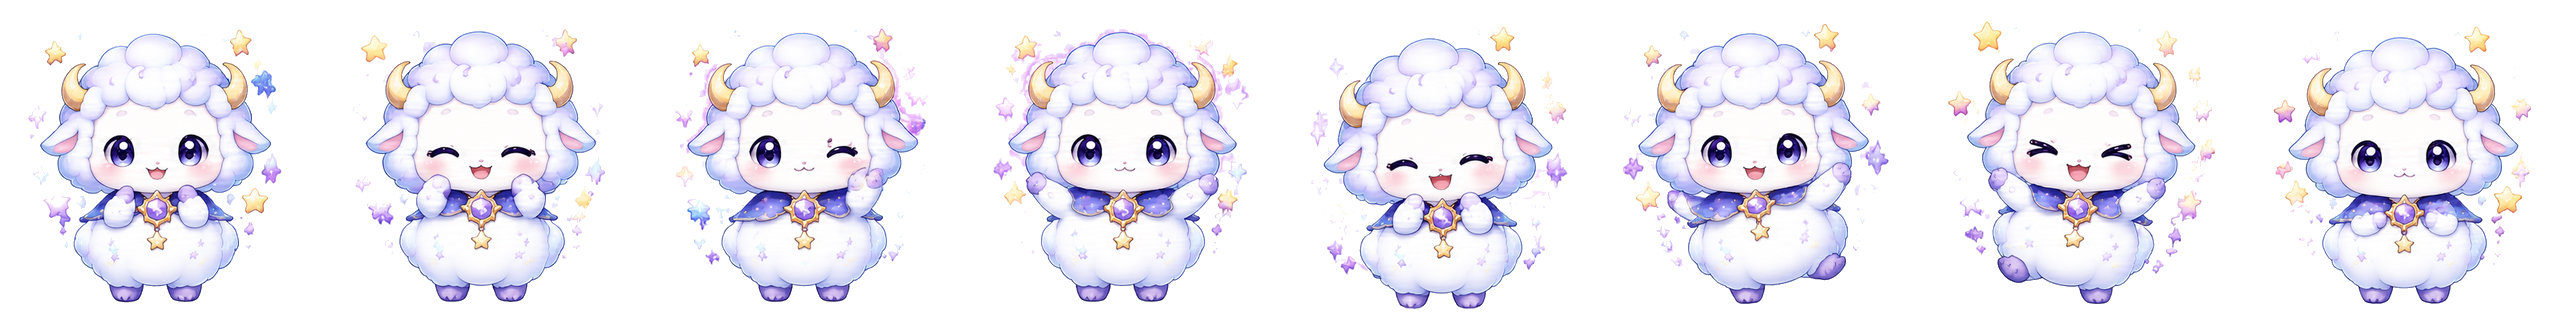
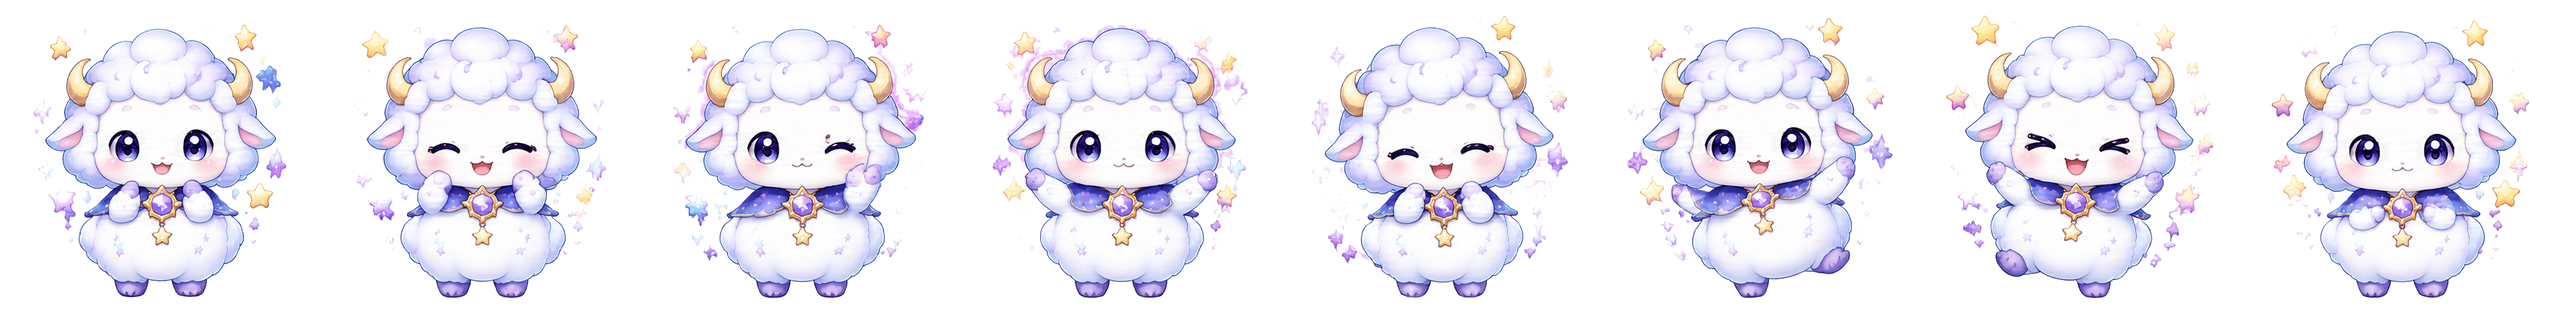
animation and ui cleanup

Changed region(s): [[0.0, 0.0625, 1.0, 0.9688], [0.875, 0.1562, 0.9062, 0.1875]]

diff --git a/lib/features/companion/companion_page.dart b/lib/features/companion/companion_page.dart
@@ -74,13 +74,8 @@ class _CompanionPageState extends State<CompanionPage> {
       backgroundColor: gdSurface,
       builder: (sheetContext) {
         return _CompanionPickerSheet(
-          coins: widget.coins,
           activeCompanion: widget.activeCompanion,
           unlockedCompanions: widget.unlockedCompanions,
-          onGachaPull: () {
-            Navigator.pop(sheetContext);
-            _handleGachaPull();
-          },
           onSelected: (companion) {
             Navigator.pop(sheetContext);
             widget.onCompanionSelected(companion);
@@ -386,6 +381,7 @@ class _GachaPullPanel extends StatelessWidget {
     final lockedCount = gachaCompanions
         .where((companion) => !_isUnlocked(companion))
         .length;
+    final allUnlocked = lockedCount == 0;
     final hiddenText = lockedCount == 0
         ? 'All companions discovered'
         : '$lockedCount companions still hidden';
@@ -451,9 +447,17 @@ class _GachaPullPanel extends StatelessWidget {
         SizedBox(
           width: double.infinity,
           child: FilledButton.icon(
-            onPressed: isPulling ? null : onPull,
-            icon: const Icon(Icons.auto_awesome_rounded),
-            label: const Text('Pull capsule -$companionGachaCost coins'),
+            onPressed: isPulling || allUnlocked ? null : onPull,
+            icon: Icon(
+              allUnlocked
+                  ? Icons.check_circle_rounded
+                  : Icons.auto_awesome_rounded,
+            ),
+            label: Text(
+              allUnlocked
+                  ? 'All companions unlocked'
+                  : 'Pull capsule -$companionGachaCost coins',
+            ),
           ),
         ),
       ],
@@ -703,17 +707,13 @@ class _GachaResultCard extends StatelessWidget {
 
 class _CompanionPickerSheet extends StatelessWidget {
   const _CompanionPickerSheet({
-    required this.coins,
     required this.activeCompanion,
     required this.unlockedCompanions,
-    required this.onGachaPull,
     required this.onSelected,
   });
 
-  final int coins;
   final CompanionKind activeCompanion;
   final Set<CompanionKind> unlockedCompanions;
-  final VoidCallback onGachaPull;
   final ValueChanged<CompanionKind> onSelected;
 
   bool _isUnlocked(CompanionKind companion) {
@@ -735,13 +735,6 @@ class _CompanionPickerSheet extends StatelessWidget {
                 Expanded(
                   child: Text('Companions', style: GdText.titleLarge),
                 ),
-                Text(
-                  '$coins coins',
-                  style: TextStyle(
-                    color: gdMuted,
-                    fontWeight: FontWeight.w900,
-                  ),
-                ),
               ],
             ),
             const SizedBox(height: 14),
@@ -755,15 +748,6 @@ class _CompanionPickerSheet extends StatelessWidget {
               if (companion != CompanionKind.values.last)
                 Divider(color: gdBorder),
             ],
-            const SizedBox(height: 14),
-            SizedBox(
-              width: double.infinity,
-              child: FilledButton.icon(
-                onPressed: onGachaPull,
-                icon: const Icon(Icons.auto_awesome_rounded),
-                label: const Text('Pull capsule -$companionGachaCost coins'),
-              ),
-            ),
           ],
         ),
       ),

diff --git a/lib/features/companion/companion_sprite.dart b/lib/features/companion/companion_sprite.dart
@@ -29,6 +29,10 @@ CompanionStreakTier companionStreakTierFor(int streak) {
 
 enum _SpriteMood { idle, interacted }
 
+const _idleAnimationDuration = Duration(milliseconds: 2200);
+const _interactedAnimationDuration = Duration(milliseconds: 1400);
+const _interactionHoldDuration = Duration(milliseconds: 1800);
+
 class CompanionSprite extends StatefulWidget {
   const CompanionSprite({
     super.key,
@@ -60,7 +64,7 @@ class _CompanionSpriteState extends State<CompanionSprite> {
     widget.onTap?.call();
     _interactionTimer?.cancel();
     setState(() => _mood = _SpriteMood.interacted);
-    _interactionTimer = Timer(const Duration(milliseconds: 1200), () {
+    _interactionTimer = Timer(_interactionHoldDuration, () {
       if (!mounted) return;
       setState(() => _mood = _SpriteMood.idle);
     });
@@ -84,8 +88,8 @@ class _CompanionSpriteState extends State<CompanionSprite> {
           assetPath: _assetPath,
           size: widget.size,
           duration: _mood == _SpriteMood.interacted
-              ? const Duration(milliseconds: 720)
-              : const Duration(milliseconds: 1200),
+              ? _interactedAnimationDuration
+              : _idleAnimationDuration,
         ),
       ),
     );
@@ -181,7 +185,7 @@ class SpriteSheetAnimation extends StatefulWidget {
     required this.size,
     this.frameCount = 8,
     this.frameSize = 320,
-    this.duration = const Duration(milliseconds: 1200),
+    this.duration = _idleAnimationDuration,
   });
 
   final String assetPath;

diff --git a/lib/app/goal_digger_root.dart b/lib/app/goal_digger_root.dart
@@ -2751,6 +2751,14 @@ class _GoalDiggerRootState extends State<GoalDiggerRoot> {
   }
 
   Future<CompanionGachaResult?> _pullCompanionGacha() async {
+    final allGachaCompanionsUnlocked = gachaCompanions.every(
+      _unlockedCompanions.contains,
+    );
+    if (allGachaCompanionsUnlocked) {
+      _showMessage('All companions are already unlocked.');
+      return null;
+    }
+
     if (_coins < companionGachaCost) {
       _showHelpfulError(
         title: 'Not enough coins',
